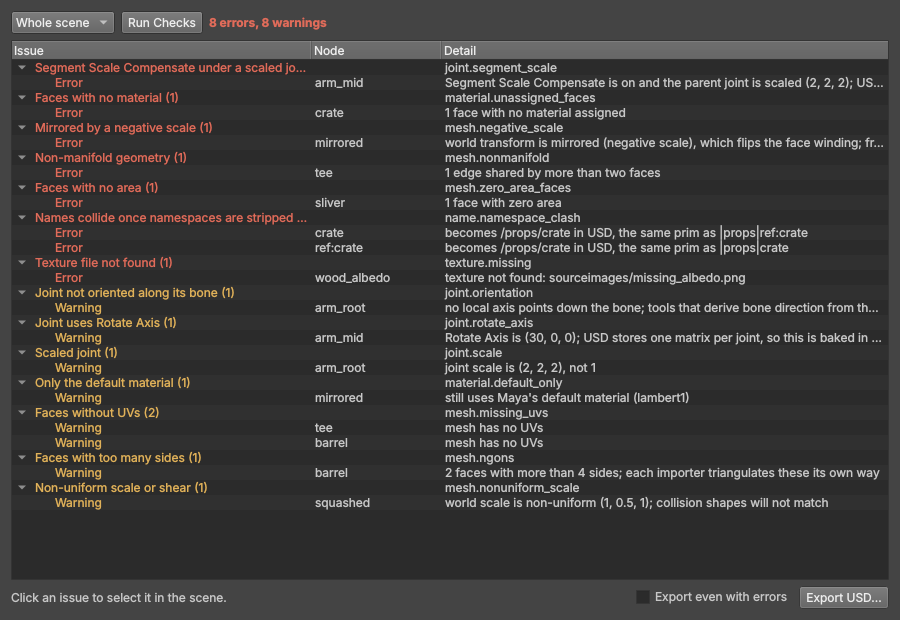
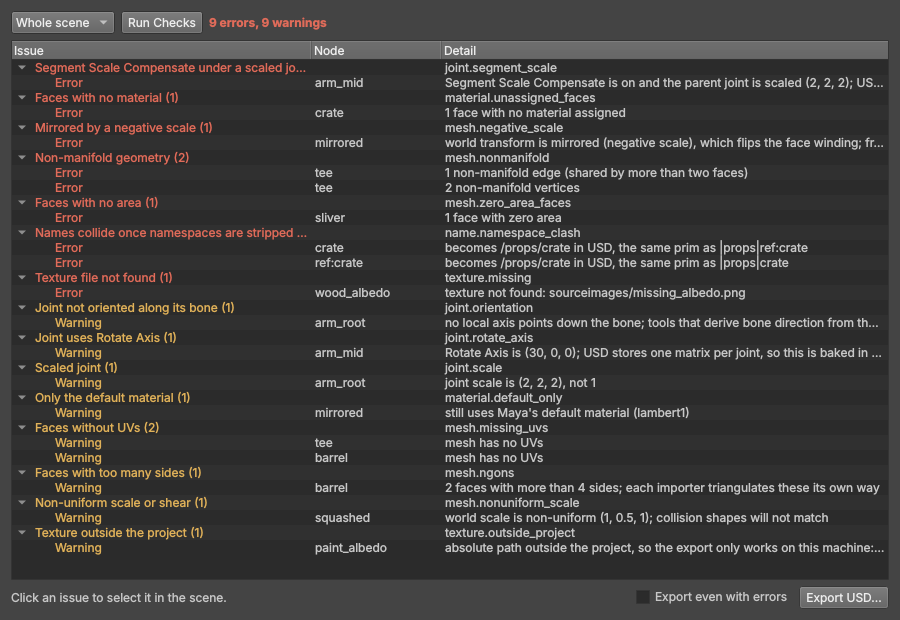
README with the results from Maya; drop the Maya USD install from CI
Autodesk's Maya USD installer asks for its terms to be accepted before it
unpacks, so CI does not install it. The export tests skip in CI and the
README says the export has not been run inside Maya.

Claude-Session: https://claude.ai/code/session_01Nux7LUquheW3MwYcubqceT

diff --git a/README.md b/README.md
@@ -11,7 +11,37 @@ file and makes sure it matches the scene.
 
 ![The panel listing the issues found in the broken example scene](docs/panel.png)
 
-*The panel, drawn outside Maya from the results for `examples/make_scenes.py`'s broken scene.*
+*The panel showing what Maya reports for the broken example scene. The image is
+drawn outside Maya (`examples/render_panel.py`); the panel has not been opened
+inside Maya yet.*
+
+The same scene in batch mode, from the CI run in Maya 2025:
+
+```console
+$ mayapy preflight_batch.py examples/scenes --out out --snapshots
+broken_crate.ma: 9 errors, 9 warnings  (Y up, cm)
+  ERROR    joint.segment_scale        |arm_root|arm_mid  Segment Scale Compensate is on and the parent joint is scaled (2, 2, 2); USD has no equivalent, so this joint and its children will change size
+  ERROR    material.unassigned_faces  |props|crate       1 face with no material assigned
+  ERROR    mesh.negative_scale        |props|mirrored    world transform is mirrored (negative scale), which flips the face winding; freeze the scale and fix the normals
+  ERROR    mesh.nonmanifold           |props|tee         1 non-manifold edge (shared by more than two faces)
+  ERROR    mesh.nonmanifold           |props|tee         2 non-manifold vertices
+  ERROR    mesh.zero_area_faces       |props|sliver      1 face with zero area
+  ERROR    name.namespace_clash       |props|crate       becomes /props/crate in USD, the same prim as |props|ref:crate
+  ERROR    name.namespace_clash       |props|ref:crate   becomes /props/crate in USD, the same prim as |props|crate
+  ERROR    texture.missing            wood_albedo        texture not found: sourceimages/missing_albedo.png
+  WARNING  joint.orientation          |arm_root          no local axis points down the bone; tools that derive bone direction from the joint's axes will orient it differently
+  WARNING  joint.rotate_axis          |arm_root|arm_mid  Rotate Axis is (30, 0, 0); USD stores one matrix per joint, so this is baked in and the joint's axes change in other tools
+  WARNING  joint.scale                |arm_root          joint scale is (2, 2, 2), not 1
+  WARNING  material.default_only      |props|mirrored    still uses Maya's default material (lambert1)
+  WARNING  mesh.missing_uvs           |props|barrel      mesh has no UVs
+  WARNING  mesh.missing_uvs           |props|tee         mesh has no UVs
+  WARNING  mesh.ngons                 |props|barrel      2 faces with more than 4 sides; each importer triangulates these its own way
+  WARNING  mesh.nonuniform_scale      |props|squashed    world scale is non-uniform (1, 0.5, 1); collision shapes will not match
+  WARNING  texture.outside_project    paint_albedo       absolute path outside the project, so the export only works on this machine: /__w/.../examples/scenes_elsewhere/paint_albedo.png
+clean_crate.ma: 0 errors, 0 warnings  (Y up, cm)
+
+1 of 2 scenes passed
+```
 
 ## What it checks
 
@@ -20,7 +50,7 @@ file and makes sure it matches the scene.
 | `scene.empty` | error | No meshes or joints to export |
 | `scene.up_axis`, `scene.units` | error | Scene up axis or linear unit differs from the profile (off unless the profile sets them) |
 | `mesh.empty` | error | A mesh with no faces |
-| `mesh.nonmanifold` | error | Edges shared by more than two faces, vertices joining faces that share no edge |
+| `mesh.nonmanifold` | error | Non-manifold edges (shared by more than two faces) and vertices |
 | `mesh.lamina_faces` | error | Faces stacked on each other, sharing all their edges |
 | `mesh.zero_area_faces` | error | Faces collapsed to a line or a point |
 | `mesh.ngons` | warning | Faces with more than four sides (each importer triangulates them its own way) |
@@ -88,13 +118,13 @@ or the selection, click an issue to select what is wrong, export when it is
 clean. Export stays disabled while there are errors unless you tick *Export
 even with errors*.
 
-**The command.** Returns the report as JSON and prints it to the Script Editor.
+**The command.** Prints the report to the Script Editor and returns
+`[errors, warnings]`.
 
 ```python
-import json
 from maya import cmds
 
-report = json.loads(cmds.usdPreflight())
+errors, warnings = cmds.usdPreflight()
 cmds.usdPreflight(selection=True, export="C:/show/crate.usda", report="C:/show/crate.report.json")
 ```
 
@@ -109,6 +139,17 @@ usdPreflight -selection -profile "profiles/sim_ready.json";
 | `-ex` / `-export PATH` | Export to USD if no check fails, then check the file |
 | `-f` / `-force` | Export even if a check fails |
 | `-r` / `-report PATH` | Also write the report to a JSON file |
+
+**From Python.** The command is a thin layer over one function, which returns
+the report object.
+
+```python
+from usd_preflight.run import preflight
+
+report = preflight(selection=True)
+for issue in report.errors:
+    print(issue.check, issue.node, issue.message)
+```
 
 **Batch.** No interface, one report per scene, exit code 1 if any scene has errors.
 
@@ -188,15 +229,26 @@ mayapy -m pytest tests/maya -v
 
 `examples/make_scenes.py` builds a clean scene and a broken one with one known
 problem per object. The Maya tests check that reading the broken scene reports
-exactly those problems, on those nodes, and that the clean scene reports none,
-exports, and matches its file. CI runs them in Maya 2024 and 2025 containers.
+exactly those problems, on those nodes; that every reported face, edge and
+vertex is something Maya can select; that the clean scene reports nothing;
+and that the plug-in loads through its module file, runs its command with
+each flag, and unloads.
+
+CI runs them inside Maya 2024 and Maya 2025 (the community `tahv/mayapy`
+Linux images), then builds both example scenes and runs batch mode on them.
 
 ## Status and limits
 
-- The Maya side has not been run yet. The code that reads the scene, the
-  command and the export are written against the Maya documentation and are
-  waiting on their first CI run inside Maya.
-- The panel has only been run outside Maya, on callbacks.
+- Run in Maya 2024 and 2025 on Linux, in CI. Not yet run on Windows or macOS,
+  or on a production scene.
+- **The export step has not been run inside Maya.** The CI image has Maya but
+  not the Maya USD plug-in, so the three export tests skip there. The
+  comparison itself is tested against stages written with `usd-core`, but the
+  `mayaUSDExport` call and how its real output compares are unverified. On a
+  desktop install of Maya, where Maya USD is included, `mayapy -m pytest
+  tests/maya` runs those tests too.
+- The panel is tested outside Maya, on callbacks. It has not been opened in
+  Maya's interface.
 - Only polygon meshes and joints are read. NURBS, curves, cameras, lights and
   animation are not checked.
 - Skinned meshes are exported in their bind pose, so for a posed character a
@@ -207,6 +259,7 @@ exports, and matches its file. CI runs them in Maya 2024 and 2025 containers.
 
 ## Next steps
 
+- [ ] Run the export tests in a Maya with Maya USD, and open the panel in Maya
 - [ ] Fix buttons for the mechanical problems (assign a material, freeze scale)
 - [ ] Check that file textures have a colour space the exporter understands
 - [ ] Skin weights: influences per vertex, unnormalised weights
